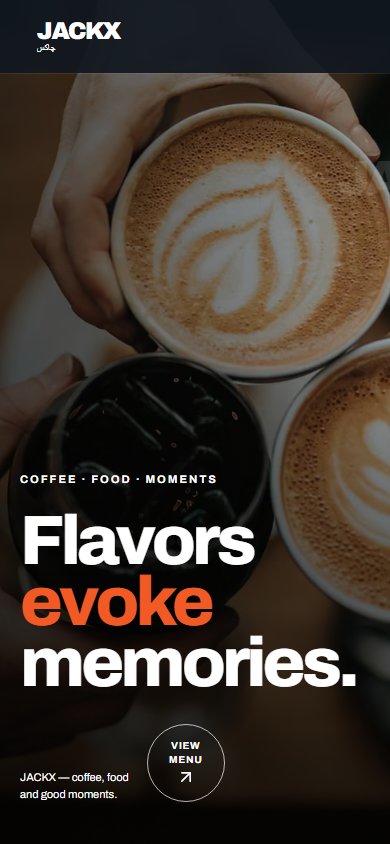
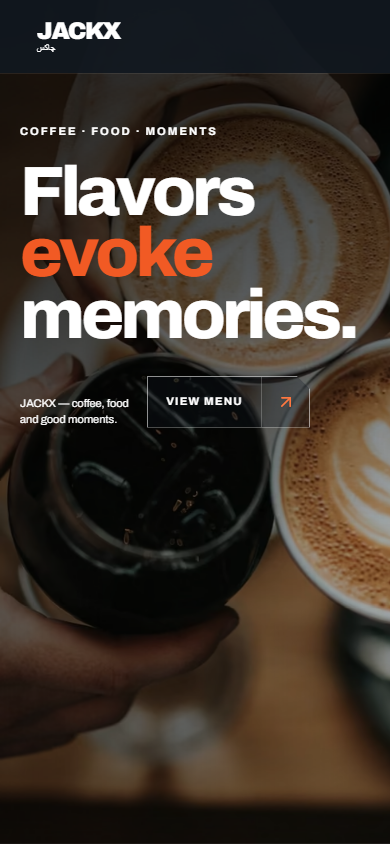
hero fix

diff --git a/app/globals.css b/app/globals.css
@@ -541,6 +541,12 @@ picture {
   letter-spacing: 0.3em;
 }
 
+/* The signature showcase is a phone-only device — see the 700px block. Above
+   that width the bottom of the hero is already composed by the photograph. */
+.hero-showcase {
+  display: none;
+}
+
 /* ----------------------------------------------------------- section shell */
 .section-grid {
   display: grid;
@@ -1033,24 +1039,34 @@ picture {
     outline-color: #fff;
   }
 
-  /* ---- hero */
+  /* ---- hero
+     Bottom-aligning the content (the desktop behaviour) pushed it into a narrow
+     band *behind* the fixed bottom nav while leaving ~110px of dead image above it.
+     On phones the type now anchors to the upper-middle: it clears the sticky
+     header by a fixed amount plus a viewport-relative offset, and the bottom
+     padding reserves exactly the space the bottom nav occupies. */
   .hero {
     min-height: 600px;
     min-height: 100svh;
-    max-height: 720px;
-    padding: 6.75rem 20px 2.625rem;
+    max-height: 900px;
+    align-items: flex-start;
+    padding: calc(var(--header-h) + clamp(1.75rem, 6svh, 3.5rem)) 20px calc(5.5rem + env(safe-area-inset-bottom, 0px) + 1.25rem);
   }
 
+  /* Contrast follows the type upward: a dense band behind the header/eyebrow/head,
+     opening out through the middle so the photograph still reads, then a second
+     rise at the base that seats the showcase and the watermark above the nav. */
   .hero-wash {
     background:
-      linear-gradient(0deg, rgb(0 0 0 / 78%) 6%, rgb(0 0 0 / 18%) 62%),
-      linear-gradient(90deg, rgb(0 0 0 / 55%), rgb(0 0 0 / 10%) 80%);
+      linear-gradient(180deg, rgb(0 0 0 / 74%) 0%, rgb(0 0 0 / 48%) 32%, rgb(0 0 0 / 10%) 56%, rgb(0 0 0 / 26%) 76%, rgb(0 0 0 / 48%) 100%),
+      linear-gradient(90deg, rgb(0 0 0 / 45%), rgb(0 0 0 / 8%) 82%);
   }
 
+  /* The oversized ghost wordmark only reads at desktop scale — on phones it
+     lands on a bright crop and renders as a broken fragment. The photograph
+     now carries the lower half of the composition on its own. */
   .hero-mark {
-    top: 19%;
-    right: 10px;
-    opacity: 0.16;
+    display: none;
   }
 
   .hero-bottom {
@@ -1064,10 +1080,190 @@ picture {
     line-height: 1.5;
   }
 
-  .circle-link {
-    width: 4.875rem;
-    height: 4.875rem;
-    font-size: 0.625rem;
+  /* Editorial CTA. The circle is a desktop shape; on touch it becomes a notched
+     plate — flat, hairline-ruled and segmented into label + arrow cell. The
+     notch is drawn with clip-path so the border follows the cut, and the
+     `<br>` in the label is inert inside a flex row, so it reads "View menu". */
+  .hero-cta {
+    display: inline-flex;
+    flex-direction: row;
+    align-items: stretch;
+    gap: 0;
+    width: auto;
+    height: auto;
+    min-height: 52px;
+    border: 1px solid rgb(255 255 255 / 55%);
+    border-radius: 0;
+    background: rgb(17 24 32 / 30%);
+    backdrop-filter: blur(6px);
+    clip-path: polygon(0 0, calc(100% - 14px) 0, 100% 14px, 100% 100%, 0 100%);
+    transition:
+      background-color 0.3s var(--ease),
+      color 0.3s var(--ease),
+      border-color 0.3s var(--ease);
+  }
+
+  .hero-cta .hero-cta-label {
+    display: flex;
+    flex-direction: row;
+    gap: 0.32em;
+    align-items: center;
+    padding: 0.9rem 1.15rem;
+    font-size: 0.6875rem;
+    font-weight: 700;
+    line-height: 1;
+    letter-spacing: 0.12em;
+    text-transform: uppercase;
+    white-space: nowrap;
+  }
+
+  .hero-cta .hero-cta-arrow {
+    display: flex;
+    align-items: center;
+    justify-content: center;
+    width: 48px;
+    border-left: 1px solid rgb(255 255 255 / 22%);
+    color: var(--orange-bright);
+    transition:
+      transform 0.3s var(--ease-out),
+      color 0.3s var(--ease);
+  }
+
+  /* Press feedback: the whole plate fills and the arrow kicks out diagonally.
+     Transform/opacity only, so it stays on the compositor. */
+  .hero-cta:active {
+    background: var(--orange);
+    border-color: var(--orange);
+  }
+
+  .hero-cta:active .hero-cta-arrow {
+    color: #fff;
+    transform: translate(3px, -3px);
+  }
+
+  /* Entrance: one staggered rise for the type block plus a settle on the
+     photograph. Transform/opacity only. The global reduced-motion rule already
+     neutralises these. */
+  @media (prefers-reduced-motion: no-preference) {
+    .hero-content .eyebrow,
+    .hero-content h1,
+    .hero-bottom {
+      animation: hero-rise 0.7s var(--ease-out) both;
+    }
+
+    .hero-content .eyebrow {
+      animation-delay: 0.05s;
+    }
+
+    .hero-content h1 {
+      animation-delay: 0.13s;
+    }
+
+    .hero-bottom {
+      animation-delay: 0.24s;
+    }
+
+    .hero-showcase {
+      animation: hero-rise 0.7s var(--ease-out) 0.34s both;
+    }
+
+    .hero .cover-img {
+      animation: hero-settle 1.1s var(--ease-out) both;
+    }
+  }
+
+  /* ---- signature showcase
+     The lower third of the phone hero was photograph and nothing else. One
+     small product still, floating over the image with the type set beside it,
+     gives that band a focal point and hands the eye down to the bottom nav.
+
+     The hero content stretches to the full hero box, so `margin-block: auto`
+     centres the showcase in whatever space is left between the CTA and the
+     reserved nav clearance. That keeps the gap above and below it even at every
+     width from 320px to 430px, and guarantees it can never reach the nav — no
+     per-device nudging. */
+  .hero-content {
+    align-self: stretch;
+    display: flex;
+    flex-direction: column;
+  }
+
+  .hero-showcase {
+    position: relative;
+    z-index: 1;
+    display: flex;
+    align-items: center;
+    gap: 0.875rem;
+    margin-block: auto;
+    color: #fff;
+  }
+
+  .hero-showcase-media {
+    position: relative;
+    flex: none;
+    height: clamp(4.375rem, 14svh, 7.5rem);
+    aspect-ratio: 4 / 5;
+    overflow: hidden;
+    background: var(--ink-soft);
+    border: 1px solid rgb(255 255 255 / 26%);
+    border-radius: var(--radius);
+    box-shadow: 0 18px 36px rgb(17 24 32 / 45%);
+  }
+
+  /* Tightens the 3:4 source onto the cup instead of the portafilter, so the
+     still reads as a drink at 70px rather than as brown texture. */
+  .hero-showcase-media .cover-img {
+    object-position: 50% 82%;
+  }
+
+  .hero-showcase-copy {
+    display: flex;
+    flex-direction: column;
+    align-items: flex-start;
+    min-width: 0;
+    /* The photograph keeps moving under the type as the crop scales, so the
+       small sizes carry their own contrast rather than a plate behind them. */
+    text-shadow: 0 1px 12px rgb(17 24 32 / 60%);
+  }
+
+  .hero-showcase-label {
+    font-size: 0.5625rem;
+    font-weight: 700;
+    letter-spacing: 0.2em;
+    text-transform: uppercase;
+    color: var(--orange-bright);
+  }
+
+  .hero-showcase-name {
+    margin-top: 0.3rem;
+    font-size: 0.9375rem;
+    font-weight: 700;
+    letter-spacing: -0.01em;
+    line-height: 1.2;
+  }
+
+  .hero-showcase-cta {
+    display: inline-flex;
+    align-items: center;
+    gap: 0.3rem;
+    margin-top: 0.55rem;
+    padding-bottom: 0.2rem;
+    border-bottom: 1px solid rgb(255 255 255 / 34%);
+    font-size: 0.5625rem;
+    font-weight: 700;
+    letter-spacing: 0.14em;
+    text-transform: uppercase;
+    color: rgb(255 255 255 / 80%);
+  }
+
+  /* Press feedback matches the CTA plate: the arrow kicks out diagonally.
+     Transform only, so it stays on the compositor. */
+  .hero-showcase-cta svg {
+    transition: transform 0.3s var(--ease-out);
+  }
+
+  .hero-showcase:active .hero-showcase-cta svg {
+    transform: translate(2px, -2px);
   }
 
   /* ---- section shells */
@@ -1200,6 +1396,30 @@ picture {
   }
 }
 
+@keyframes hero-rise {
+  from {
+    opacity: 0;
+    transform: translateY(18px);
+  }
+
+  to {
+    opacity: 1;
+    transform: none;
+  }
+}
+
+@keyframes hero-settle {
+  from {
+    opacity: 0.4;
+    transform: scale(1.06);
+  }
+
+  to {
+    opacity: 1;
+    transform: none;
+  }
+}
+
 /* ---------------------------------------------------------- motion & a11y */
 @media (prefers-reduced-motion: reduce) {
   html {
@@ -1210,6 +1430,9 @@ picture {
   *::before,
   *::after {
     animation-duration: 0.01ms !important;
+    /* Delays go too: a `both`-filled entrance would otherwise hold its element
+       invisible for the length of the stagger before snapping in. */
+    animation-delay: 0s !important;
     animation-iteration-count: 1 !important;
     transition-duration: 0.01ms !important;
     scroll-behavior: auto !important;
@@ -1235,6 +1458,13 @@ picture {
   .header-cta:hover,
   .solid-link:hover {
     box-shadow: 0 10px 24px rgb(241 90 36 / 25%);
+  }
+
+  /* The notched hero plate inverts its arrow cell on hover so the diagonal
+     gesture reads as a single object. */
+  .hero-cta:hover .hero-cta-arrow {
+    color: #fff;
+    transform: translate(3px, -3px);
   }
 
   .text-link:hover {

diff --git a/components/home-page.tsx b/components/home-page.tsx
@@ -1,7 +1,7 @@
 import { ArrowUpRight } from 'lucide-react'
 import { Picture, PreloadHero } from '@/components/picture'
 import { BottomNav, DirectionsLink, Footer, Header, InstagramLink } from '@/components/site-chrome'
-import { ADDRESS_LINES, GALLERY, INSTAGRAM, INSTAGRAM_HANDLE, SOCIAL_TILES, asset } from '@/lib/site'
+import { ADDRESS_LINES, GALLERY, INSTAGRAM, INSTAGRAM_HANDLE, SIGNATURE, SOCIAL_TILES, asset } from '@/lib/site'
 
 /** Home page. Pure server component — every animation is CSS driven. */
 export function HomePage() {
@@ -30,12 +30,33 @@ export function HomePage() {
               <br />
               and good moments.
             </p>
-            <a href={asset('/menu/')} className="circle-link">
-              View
-              <br />
-              menu <ArrowUpRight size={20} aria-hidden="true" />
+            <a href={asset('/menu/')} className="circle-link hero-cta">
+              <span className="hero-cta-label">
+                <span>View</span>
+                <span>menu</span>
+              </span>
+              <span className="hero-cta-arrow" aria-hidden="true">
+                <ArrowUpRight size={20} />
+              </span>
             </a>
           </div>
+          {/* Secondary focal point for the lower half of the hero. Rendered on
+              every viewport but only displayed below 700px, where the photograph
+              otherwise carries the bottom of the composition alone. The whole
+              block is the link, so the image and the type share one tap target. */}
+          <a className="hero-showcase" href={asset(SIGNATURE.href)}>
+            <span className="hero-showcase-media">
+              <Picture name="signature" className="cover-img" />
+            </span>
+            <span className="hero-showcase-copy">
+              <span className="hero-showcase-label">{SIGNATURE.label}</span>
+              <span className="hero-showcase-name">{SIGNATURE.name}</span>
+              <span className="hero-showcase-cta">
+                Explore menu
+                <ArrowUpRight size={12} aria-hidden="true" />
+              </span>
+            </span>
+          </a>
         </div>
         <p className="hero-mark" aria-hidden="true">
           JACKX

diff --git a/lib/site.ts b/lib/site.ts
@@ -18,6 +18,19 @@ export const DIRECTIONS =
 export const ADDRESS_LINES = ['Nile Corniche', 'Extension of Al-Sousana Street', 'Next to First Abu Dhabi Bank'] as const
 
 /**
+ * The mobile hero showcase.
+ *
+ * JACKX has no published item names yet — the menu page is still "coming soon" —
+ * so `name` is an explicit, obviously-fake placeholder rather than invented
+ * product copy. Replace it with the real signature item; nothing else changes.
+ */
+export const SIGNATURE = {
+  label: 'Signature',
+  name: 'Item name',
+  href: '/menu/',
+} as const
+
+/**
  * Responsive image registry.
  *
  * Every entry is cropped server-side to the exact aspect ratio the layout renders at,
@@ -117,6 +130,15 @@ const IMAGE_SPECS = {
   'category-drinks': {
     alt: 'JACKX drinks: espresso and iced coffee with roasted beans',
     crops: [{ w: 900, h: 1200, widths: [480, 900], sizes: '(min-width: 701px) 32vw, 92vw' }],
+  },
+  /**
+   * The hero showcase renders the drinks photograph at roughly a fifth of the
+   * width, so it declares its own `sizes` against the same physical files —
+   * without it the browser would pull the 900px crop for a 76px tile.
+   */
+  signature: {
+    alt: 'Espresso and roasted beans on the JACKX table',
+    crops: [{ file: 'category-drinks', w: 900, h: 1200, widths: [480, 900], sizes: '20vw' }],
   },
 }
 
